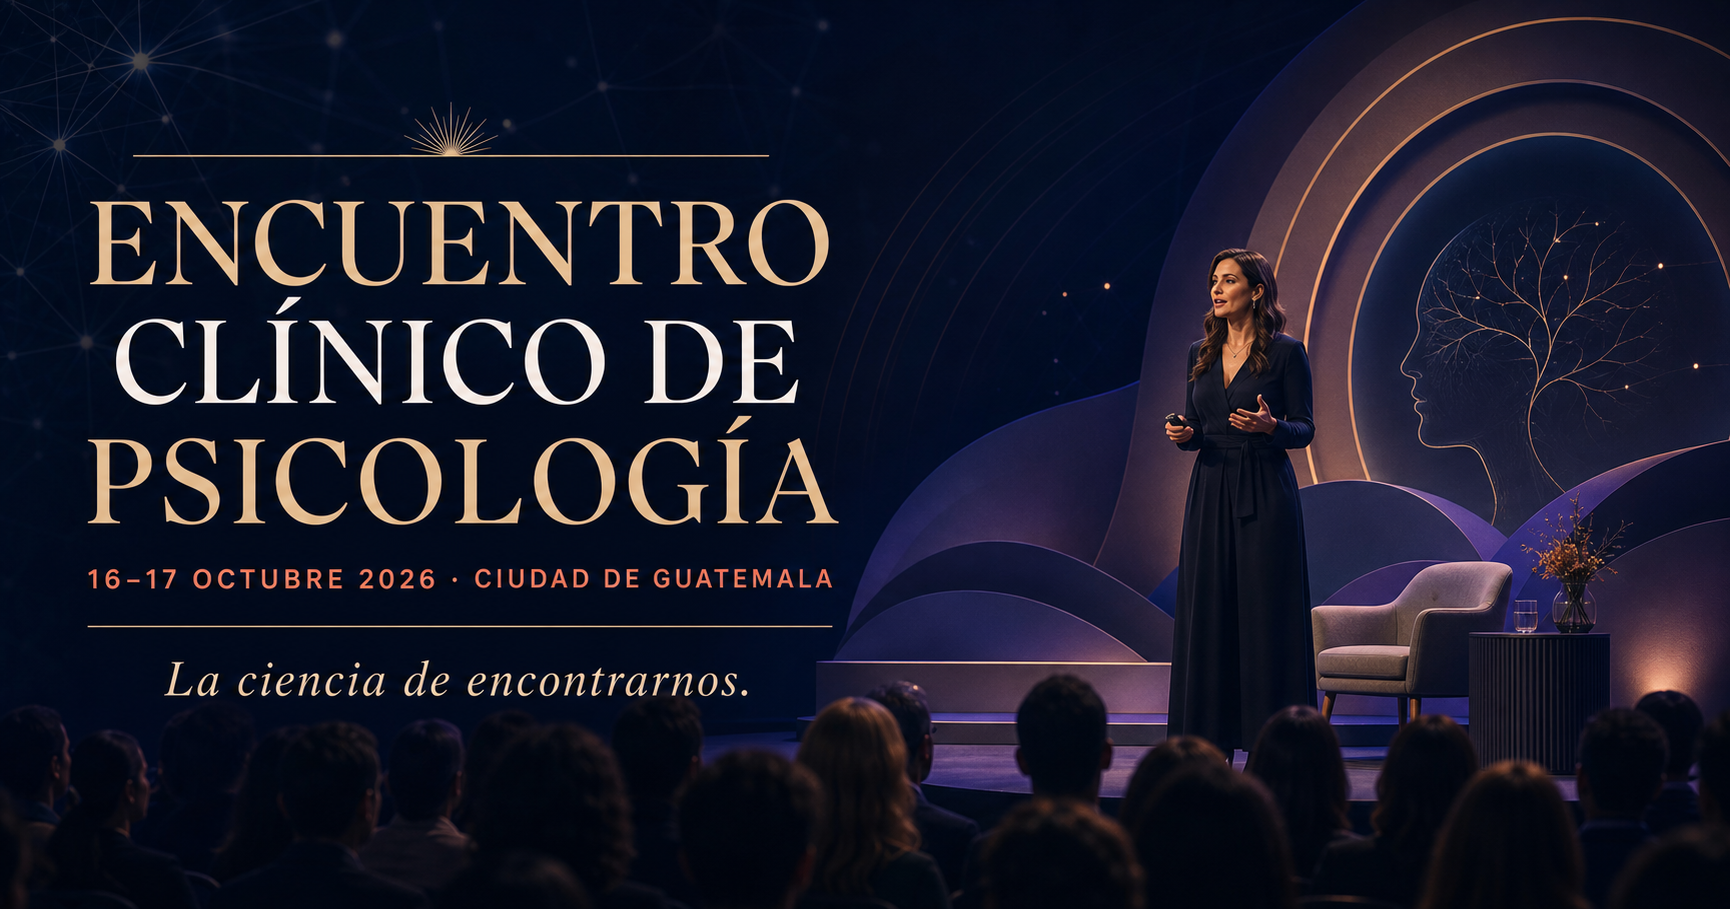
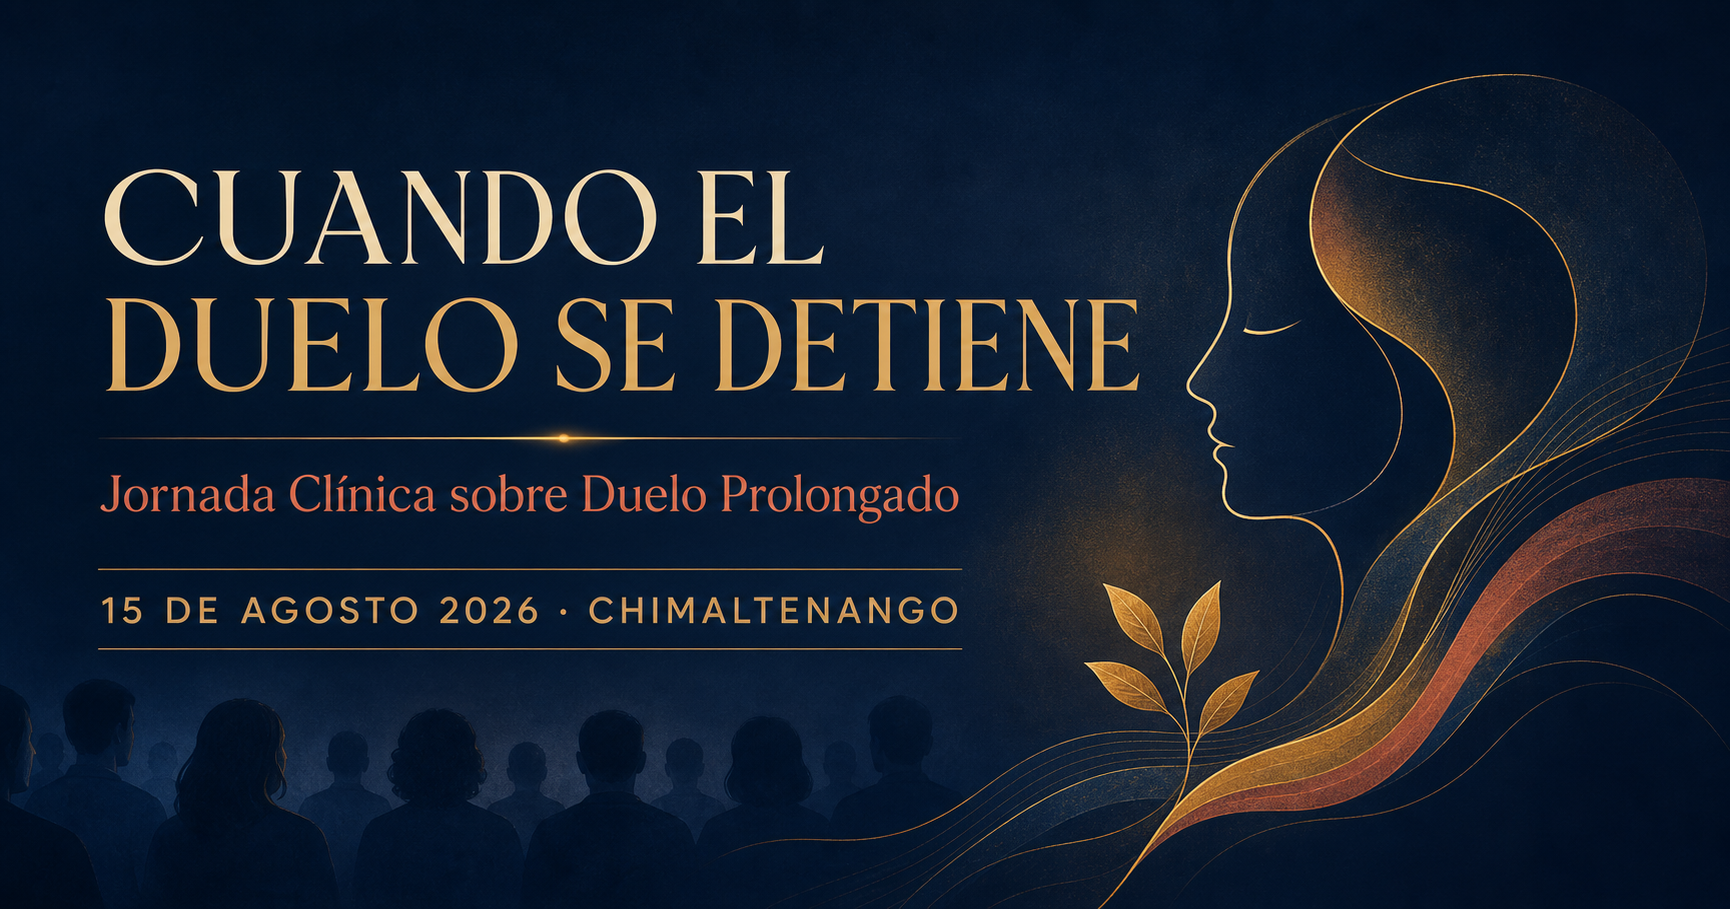
Update prolonged grief clinical program

diff --git a/app/page.tsx b/app/page.tsx
@@ -1,30 +1,35 @@
 "use client";
 
-import { FormEvent, useMemo, useState } from "react";
+import { FormEvent, useState } from "react";
 
 const agenda = [
-  { time: "08:00", type: "Apertura", title: "Registro, café y encuentro", speaker: "Vestíbulo principal" },
-  { time: "09:00", type: "Magistral", title: "La mente que sana: presencia, vínculo y cambio", speaker: "Dra. Elena Valdés · Psicología clínica" },
-  { time: "10:30", type: "Panel", title: "Trauma, cuerpo y memoria: una mirada integradora", speaker: "Panel interdisciplinario" },
-  { time: "12:00", type: "Pausa", title: "Almuerzo y conexión profesional", speaker: "Zona de experiencias" },
-  { time: "14:00", type: "Taller", title: "Herramientas para conversaciones clínicas difíciles", speaker: "Lic. Samuel Méndez" },
-  { time: "16:00", type: "Magistral", title: "Psicología en una era de inteligencia artificial", speaker: "Dra. Mariana Solís · Neuropsicología" },
-  { time: "17:30", type: "Cierre", title: "Lo que nos llevamos a la práctica", speaker: "Comité académico" },
+  { time: "8:30–9:00", type: "Registro", title: "Registro e inscripciones", speaker: "Recepción de participantes" },
+  { time: "9:00–9:10", type: "Apertura", title: "Apertura institucional", speaker: "Bienvenida a la jornada" },
+  { time: "9:10–9:30", type: "Charla 1", title: "Diagnóstico", speaker: "Duelo normal vs. trastorno de duelo prolongado · DSM-5-TR / CIE-11" },
+  { time: "9:30–9:50", type: "Charla 2", title: "Impacto corporal", speaker: "Somatización del duelo no resuelto" },
+  { time: "9:50–10:10", type: "Charla 3", title: "Manejo terapéutico", speaker: "Intervención clínica individual" },
+  { time: "10:10–10:25", type: "Receso", title: "Pausa y encuentro", speaker: "15 minutos" },
+  { time: "10:25–10:45", type: "Charla 4", title: "Manejo familiar", speaker: "El sistema familiar frente al duelo detenido" },
+  { time: "10:45–11:05", type: "Charla 5", title: "Psiquiatría", speaker: "Cuándo se requiere manejo farmacológico" },
+  { time: "11:05–11:25", type: "Charla 6", title: "Cierre comunitario", speaker: "Resiliencia y rol del psicólogo local" },
+  { time: "11:25–12:00", type: "Cierre", title: "Panel de preguntas y entrega de constancias", speaker: "Conversación con los 6 ponentes · cierre institucional" },
 ];
 
 const speakers = [
-  { initials: "EV", name: "Dra. Elena Valdés", role: "Psicóloga clínica y autora", topic: "Presencia terapéutica y cambio profundo", color: "violet" },
-  { initials: "SM", name: "Lic. Samuel Méndez", role: "Especialista en trauma complejo", topic: "El cuerpo como territorio de recuperación", color: "gold" },
-  { initials: "MS", name: "Dra. Mariana Solís", role: "Neuropsicóloga e investigadora", topic: "La clínica frente a la inteligencia artificial", color: "coral" },
+  { initials: "01", name: "Diagnóstico", role: "Eje clínico", topic: "Duelo normal vs. trastorno de duelo prolongado", color: "violet" },
+  { initials: "02", name: "Impacto corporal", role: "Eje clínico", topic: "Somatización del duelo no resuelto", color: "gold" },
+  { initials: "03", name: "Manejo terapéutico", role: "Eje clínico", topic: "Intervención clínica individual", color: "coral" },
+  { initials: "04", name: "Manejo familiar", role: "Eje sistémico", topic: "El sistema familiar frente al duelo detenido", color: "gold" },
+  { initials: "05", name: "Psiquiatría", role: "Eje interdisciplinario", topic: "Cuándo se requiere manejo farmacológico", color: "violet" },
+  { initials: "06", name: "Cierre comunitario", role: "Eje comunitario", topic: "Resiliencia y rol del psicólogo local", color: "coral" },
 ];
 
 export default function Home() {
-  const [day, setDay] = useState("Día 1");
   const [registration, setRegistration] = useState<"presencial" | "virtual" | null>(null);
   const [professional, setProfessional] = useState(false);
   const [student, setStudent] = useState(false);
   const [sent, setSent] = useState(false);
-  const visibleAgenda = useMemo(() => day === "Día 1" ? agenda : agenda.slice(1, 6).map((item, i) => ({ ...item, time: `${9 + i * 2}:00` })), [day]);
+  const visibleAgenda = agenda;
 
   async function submitRegistration(event: FormEvent<HTMLFormElement>) {
     event.preventDefault();
@@ -38,10 +43,10 @@ export default function Home() {
       <a className="skip-link" href="#contenido">Saltar al contenido</a>
       <header className="topbar">
         <a className="brand" href="#inicio" aria-label="Inicio Encuentro Clínico">
-          <span className="brand-mark">EC</span><span>ENCUENTRO<br /><b>CLÍNICO</b></span>
+          <img className="brand-logo" src="/duelo-simbolo.png" alt="" /><span>ENCUENTRO<br /><b>CLÍNICO</b></span>
         </a>
         <nav aria-label="Navegación principal">
-          <a href="#encuentro">El encuentro</a><a href="#agenda">Agenda</a><a href="#ponentes">Ponentes</a><a href="#recursos">Recursos</a>
+          <a href="#encuentro">La jornada</a><a href="#agenda">Agenda</a><a href="#ponentes">Ejes clínicos</a><a href="#constancias">Constancias</a>
         </nav>
         <div className="nav-actions">
           <a className="live locked" href="#transmision" aria-label="Transmisión aún no disponible"><i /> En vivo · Próximamente</a>
@@ -53,51 +58,59 @@ export default function Home() {
       <section id="inicio" className="hero">
         <div className="hero-orb orb-one" /><div className="hero-orb orb-two" />
         <div className="hero-content" id="contenido">
-          <p className="eyebrow"><span /> 16–17 OCTUBRE 2026 · CIUDAD DE GUATEMALA</p>
-          <h1>La ciencia de<br /><em>encontrarnos.</em></h1>
-          <p className="hero-copy">Dos días para volver al corazón de la práctica clínica: escuchar mejor, comprender más profundo y acompañar con humanidad.</p>
+          <p className="eyebrow"><span /> 15 DE AGOSTO 2026 · CHIMALTENANGO</p>
+          <h1>Cuando el duelo<br /><em>se detiene.</em></h1>
+          <p className="hero-copy"><b>Jornada Clínica sobre Duelo Prolongado.</b> Seis miradas para comprender su diagnóstico, impacto corporal y abordaje terapéutico, familiar, psiquiátrico y comunitario.</p>
           <div className="hero-actions">
             <button className="primary" onClick={() => setRegistration("presencial")}>Vivirlo presencial <span>↗</span></button>
             <button className="secondary" onClick={() => setRegistration("virtual")}>Participar en línea <span>→</span></button>
           </div>
-          <div className="hero-meta"><span><b>02</b> días</span><span><b>18</b> voces</span><span><b>12</b> experiencias</span></div>
+          <div className="hero-meta"><span><b>01</b> jornada</span><span><b>06</b> ponentes</span><span><b>3.5</b> horas</span></div>
         </div>
         <div className="hero-stage" aria-label="Conferencia magistral ante una audiencia">
           <div className="arch arch-1" /><div className="arch arch-2" /><div className="stage-light" />
           <div className="speaker-figure"><span className="head" /><span className="body" /></div>
           <div className="audience"><i /><i /><i /><i /><i /><i /><i /><i /></div>
-          <div className="stage-caption"><span>01</span><p>PONENCIA MAGISTRAL<br /><b>Ideas que transforman la práctica</b></p></div>
+          <div className="stage-caption"><span>15</span><p>AGOSTO 2026<br /><b>Modalidad híbrida · alcance nacional</b></p></div>
         </div>
         <a className="scroll-hint" href="#encuentro">Descubrir <span>↓</span></a>
       </section>
 
       <section id="encuentro" className="manifesto section-pad">
-        <div><p className="section-kicker">UNA EXPERIENCIA CLÍNICA VIVA</p><h2>No venimos solo a escuchar.<br /><em>Venimos a conectar.</em></h2></div>
-        <div className="manifesto-copy"><p>Un espacio de aprendizaje riguroso y profundamente humano para estudiantes, profesionales y equipos de salud mental.</p><a href="#agenda">Explorar el programa <span>→</span></a></div>
+        <div><p className="section-kicker">POR QUÉ EL DUELO PROLONGADO</p><h2>Cuando el tiempo pasa,<br /><em>pero el dolor no cambia.</em></h2></div>
+        <div className="manifesto-copy"><p>Una categoría diagnóstica reconocida por DSM-5-TR y CIE-11, todavía poco abordada en espacios formales e interdisciplinarios de Guatemala.</p><a href="#agenda">Explorar la jornada <span>→</span></a></div>
         <div className="value-grid">
-          <article><span>01</span><div className="line-icon">◌</div><h3>Perspectivas actuales</h3><p>Conocimiento clínico conectado con los desafíos de hoy.</p></article>
-          <article><span>02</span><div className="line-icon">✦</div><h3>Herramientas aplicables</h3><p>Recursos para llevar del encuentro a la consulta.</p></article>
-          <article><span>03</span><div className="line-icon">∞</div><h3>Comunidad profesional</h3><p>Conversaciones que continúan mucho después del evento.</p></article>
+          <article><span>01</span><div className="line-icon">◌</div><h3>Clínicamente relevante</h3><p>El duelo prolongado no es solo una etapa emocional: requiere detección y abordaje especializado.</p></article>
+          <article><span>02</span><div className="line-icon">✦</div><h3>Necesario en Guatemala</h3><p>Un espacio formal, interdisciplinario y con respaldo institucional dedicado al tema.</p></article>
+          <article><span>03</span><div className="line-icon">∞</div><h3>Alcance interinstitucional</h3><p>Universidades, Colegio de Psicólogos y otras ramas de la salud reunidas en una sola agenda.</p></article>
         </div>
       </section>
 
       <section id="agenda" className="agenda-section section-pad">
-        <div className="section-head"><div><p className="section-kicker">PROGRAMA ACADÉMICO</p><h2>Tu ruta de<br /><em>aprendizaje.</em></h2></div><div className="day-tabs" role="tablist">{["Día 1", "Día 2"].map(d => <button key={d} role="tab" aria-selected={day === d} onClick={() => setDay(d)}>{d}<small>{d === "Día 1" ? "Viernes 16" : "Sábado 17"}</small></button>)}</div></div>
+        <div className="section-head"><div><p className="section-kicker">CRONOGRAMA · 8:30 A.M.–12:00 P.M.</p><h2>Tres horas y media,<br /><em>minuto a minuto.</em></h2></div><div className="event-date-card"><b>15</b><span>AGOSTO<br />2026</span></div></div>
         <div className="agenda-list">{visibleAgenda.map((item, i) => <article key={item.time + item.title}><time>{item.time}</time><span className={`tag tag-${i % 3}`}>{item.type}</span><div><h3>{item.title}</h3><p>{item.speaker}</p></div><button aria-label={`Ver detalles de ${item.title}`}>+</button></article>)}</div>
         <a className="text-link" href="#recursos">Descargar agenda completa <span>↓</span></a>
       </section>
 
       <section id="ponentes" className="speakers-section section-pad">
-        <div className="section-head"><div><p className="section-kicker light">VOCES QUE ABREN CAMINO</p><h2>Conoce a quienes<br /><em>nos harán pensar.</em></h2></div><p className="side-copy">Referentes, investigadores y profesionales que combinan evidencia, experiencia y sensibilidad humana.</p></div>
+        <div className="section-head"><div><p className="section-kicker light">SEIS EJES · UNA SECUENCIA CLÍNICA</p><h2>Un tema.<br /><em>Seis miradas.</em></h2></div><p className="side-copy">Charlas breves de 15–18 minutos, transición inmediata y cierre integrador con los seis ponentes.</p></div>
         <div className="speaker-grid">{speakers.map((speaker, i) => <article className={`speaker-card ${speaker.color}`} key={speaker.name}><div className="portrait"><div className="portrait-glow" /><span>{speaker.initials}</span><div className="portrait-number">0{i + 1}</div></div><div className="speaker-info"><p>{speaker.role}</p><h3>{speaker.name}</h3><div /><small>{speaker.topic}</small></div></article>)}</div>
-        <button className="secondary light-btn">Ver todos los ponentes <span>→</span></button>
+        <a className="secondary light-btn" href="#agenda">Ver cronograma completo <span>→</span></a>
       </section>
 
       <section id="inscripciones" className="formats section-pad">
         <div className="center-head"><p className="section-kicker">ELIGE CÓMO VIVIRLO</p><h2>Una experiencia.<br /><em>Dos formas de estar.</em></h2></div>
         <div className="format-grid">
-          <article className="format-card featured"><span className="format-label">PRESENCIAL</span><div className="format-symbol">◉</div><h3>Estar cambia todo.</h3><p>Vive las conferencias, talleres y encuentros en el mismo espacio.</p><ul><li>Acceso a todas las salas</li><li>Kit del participante</li><li>Café y espacios de conexión</li><li>Certificado de participación</li></ul><button className="primary" onClick={() => setRegistration("presencial")}>Inscripción presencial <span>→</span></button></article>
-          <article className="format-card"><span className="format-label">VIRTUAL</span><div className="format-symbol">◎</div><h3>Conéctate desde donde estés.</h3><p>Transmisión de alta calidad y acceso posterior a las ponencias.</p><ul><li>Transmisión en vivo</li><li>Acceso por 30 días</li><li>Biblioteca digital</li><li>Certificado de participación</li></ul><button className="secondary" onClick={() => setRegistration("virtual")}>Inscripción virtual <span>→</span></button></article>
+          <article className="format-card featured"><span className="format-label">PRESENCIAL</span><div className="format-symbol">◉</div><h3>Vívelo en Chimaltenango.</h3><p>Participa en la jornada, el panel de preguntas y el encuentro interdisciplinario.</p><ul><li>Seis charlas clínicas breves</li><li>Panel con los seis ponentes</li><li>Espacio de conexión profesional</li><li>Constancia según perfil</li></ul><button className="primary" onClick={() => setRegistration("presencial")}>Inscripción presencial <span>→</span></button></article>
+          <article className="format-card"><span className="format-label">VIRTUAL</span><div className="format-symbol">◎</div><h3>Conéctate desde donde estés.</h3><p>Sigue la jornada en directo con el mismo contenido científico.</p><ul><li>Transmisión en vivo</li><li>Acceso a las seis charlas</li><li>Biblioteca digital</li><li>Constancia según perfil</li></ul><button className="secondary" onClick={() => setRegistration("virtual")}>Inscripción virtual <span>→</span></button></article>
+        </div>
+      </section>
+
+      <section id="constancias" className="certificates section-pad">
+        <div className="center-head"><p className="section-kicker">BENEFICIOS PARA PARTICIPANTES</p><h2>Constancias diferenciadas<br /><em>por perfil.</em></h2></div>
+        <div className="certificate-grid">
+          <article className="professional-certificate"><span>CONSTANCIA</span><h3>Profesionales colegiados</h3><em>Colegio de Psicólogos de Guatemala (CPG)</em><ul><li>Constancia con aval y numeración del CPG</li><li>Reconocimiento formal de horas de actualización profesional</li><li>Firma conjunta CPG</li></ul></article>
+          <article><span>DIPLOMA</span><h3>Estudiantes y otras ramas de la salud</h3><em>Medicina, enfermería, trabajo social y otras carreras</em><ul><li>Diploma de participación institucional</li><li>Válido como constancia de asistencia académica</li><li>Mismo contenido científico, sin aval gremial del CPG</li></ul></article>
         </div>
       </section>
 
@@ -110,7 +123,7 @@ export default function Home() {
 
       <section className="partners section-pad"><p className="section-kicker">HACEN POSIBLE ESTE ENCUENTRO</p><h2>Aliados por la salud mental.</h2><div className="logo-row"><span>MENTE ABIERTA</span><span>CLÍNICA SER</span><span>PSI·LAB</span><span>UNIVERSIDAD CENTRAL</span><span>FUNDACIÓN ESCUCHA</span></div><a href="mailto:[email redacted]">Quiero ser patrocinador <span>→</span></a></section>
 
-      <footer><div className="footer-brand"><span className="brand-mark">EC</span><h2>Encuentro<br />Clínico de Psicología</h2></div><div><b>Explora</b><a href="#encuentro">El encuentro</a><a href="#agenda">Agenda</a><a href="#ponentes">Ponentes</a><a href="#recursos">Biblioteca</a></div><div><b>Participa</b><button onClick={() => setRegistration("presencial")}>Inscripción presencial</button><button onClick={() => setRegistration("virtual")}>Inscripción virtual</button><a href="mailto:[email redacted]">Patrocinios</a><a href="/admin">Administración</a></div><div><b>Mantente cerca</b><p>Recibe novedades, recursos y anuncios importantes.</p><form><input type="email" aria-label="Correo electrónico" placeholder="[email redacted]" /><button aria-label="Suscribirme">→</button></form></div><small>© 2026 Encuentro Clínico · Privacidad · Términos</small></footer>
+      <footer><div className="footer-brand"><img className="footer-logo" src="/duelo-simbolo.png" alt="Símbolo de la jornada" /><h2>Cuando el Duelo se Detiene</h2></div><div><b>Explora</b><a href="#encuentro">La jornada</a><a href="#agenda">Agenda</a><a href="#ponentes">Ejes clínicos</a><a href="#constancias">Constancias</a></div><div><b>Participa</b><button onClick={() => setRegistration("presencial")}>Inscripción presencial</button><button onClick={() => setRegistration("virtual")}>Inscripción virtual</button><a href="mailto:[email redacted]">Patrocinios</a><a href="/admin">Administración</a></div><div><b>Mantente cerca</b><p>Recibe novedades, recursos y anuncios importantes.</p><form><input type="email" aria-label="Correo electrónico" placeholder="[email redacted]" /><button aria-label="Suscribirme">→</button></form></div><small>© 2026 Encuentro Clínico de Psicología · Chimaltenango · Privacidad · Términos</small></footer>
 
       {registration && <div className="modal-backdrop" role="presentation" onMouseDown={() => setRegistration(null)}><div className="registration-modal" role="dialog" aria-modal="true" aria-labelledby="reg-title" onMouseDown={e => e.stopPropagation()}><button className="modal-close" onClick={() => setRegistration(null)} aria-label="Cerrar">×</button>{sent ? <div className="success"><span>✓</span><h2>Tu lugar está en proceso.</h2><p>Recibimos tus datos para la modalidad {registration}. Pronto recibirás los siguientes pasos.</p><button className="primary" onClick={() => { setSent(false); setRegistration(null); }}>Listo</button></div> : <><p className="section-kicker">INSCRIPCIÓN {registration.toUpperCase()}</p><h2 id="reg-title">Reserva tu lugar.</h2><p>Completa tus datos. Los campos marcados son obligatorios.</p><form onSubmit={submitRegistration} className="registration-form"><label>Nombre completo *<input required name="name" autoComplete="name" /></label><label>Correo electrónico *<input required type="email" name="email" autoComplete="email" /></label><label>Teléfono / WhatsApp *<input required type="tel" name="phone" autoComplete="tel" /></label><div className="check-row"><label><input type="checkbox" checked={student} onChange={e => { setStudent(e.target.checked); if (e.target.checked) setProfessional(false); }} /> Soy estudiante</label><label><input type="checkbox" checked={professional} onChange={e => { setProfessional(e.target.checked); if (e.target.checked) setStudent(false); }} /> Soy profesional</label></div>{student && <label>Universidad / centro de estudios *<input required name="university" /></label>}{professional && <><label>Profesión *<select required defaultValue=""><option value="" disabled>Selecciona una profesión</option><option>Psicología clínica</option><option>Psicología educativa</option><option>Psicología industrial</option><option>Psiquiatría</option><option>Medicina</option><option>Trabajo social</option><option>Orientación</option><option>Otra profesión de salud</option></select></label><label>Número de colegiado *<input required name="license" /></label></>}<label>País *<select required defaultValue="Guatemala"><option>Guatemala</option><option>El Salvador</option><option>Honduras</option><option>Costa Rica</option><option>México</option><option>Otro</option></select></label><label className="consent"><input required type="checkbox" /> Acepto el tratamiento de mis datos para gestionar esta inscripción.</label><button className="primary submit" type="submit">Continuar con mi inscripción <span>→</span></button></form></>}</div></div>}
     </main>

diff --git a/app/layout.tsx b/app/layout.tsx
@@ -2,11 +2,11 @@ import type { Metadata } from "next";
 import "./globals.css";
 
 export const metadata: Metadata = {
-  title: "Encuentro Clínico de Psicología 2026",
-  description: "Dos días de aprendizaje, conexión y herramientas para transformar la práctica clínica.",
+  title: "Cuando el Duelo se Detiene | Jornada Clínica 2026",
+  description: "Jornada Clínica sobre Duelo Prolongado. 15 de agosto de 2026 en Chimaltenango, modalidad híbrida.",
   icons: { icon: "/favicon.svg" },
-  openGraph: { title: "Encuentro Clínico de Psicología 2026", description: "La ciencia de encontrarnos.", images: [{ url: "/og.png", width: 1200, height: 630 }] },
-  twitter: { card: "summary_large_image", title: "Encuentro Clínico de Psicología 2026", description: "La ciencia de encontrarnos.", images: ["/og.png"] },
+  openGraph: { title: "Cuando el Duelo se Detiene", description: "Jornada Clínica sobre Duelo Prolongado · 15 de agosto de 2026", images: [{ url: "/og.png", width: 1200, height: 630 }] },
+  twitter: { card: "summary_large_image", title: "Cuando el Duelo se Detiene", description: "Jornada Clínica sobre Duelo Prolongado", images: ["/og.png"] },
 };
 
 export default function RootLayout({ children }: Readonly<{ children: React.ReactNode }>) {

diff --git a/app/admin/AdminDashboard.tsx b/app/admin/AdminDashboard.tsx
@@ -7,7 +7,7 @@ export default function AdminDashboard({ userName }: { userName: string }) {
   const [active, setActive] = useState("Resumen");
   const [live, setLive] = useState(false);
   const [saved, setSaved] = useState(false);
-  const [content, setContent] = useState({ title: "La ciencia de encontrarnos.", date: "16–17 octubre 2026", place: "Ciudad de Guatemala", description: "Dos días para volver al corazón de la práctica clínica." });
+  const [content, setContent] = useState({ title: "Cuando el Duelo se Detiene", date: "15 de agosto 2026", place: "Chimaltenango", description: "Jornada Clínica sobre Duelo Prolongado: seis miradas, una secuencia clínica." });
   async function save() { await fetch("/api/admin/content", { method: "POST", headers: { "Content-Type": "application/json" }, body: JSON.stringify({ ...content, live }) }); setSaved(true); setTimeout(() => setSaved(false), 2500); }
   return <main className="admin-shell"><aside className="admin-sidebar"><a className="admin-brand" href="/"><span className="brand-mark">EC</span><b>Encuentro Clínico</b></a><nav>{sections.map((item,i)=><button key={item} className={active===item?"active":""} onClick={()=>setActive(item)}><span>{["◇","✎","☷","◉","✓","▶","☆","▤","⚙"][i]}</span>{item}{item==="Inscripciones"&&<i>24</i>}</button>)}</nav><div className="admin-user"><span>{userName.slice(0,2).toUpperCase()}</span><div><b>{userName}</b><small>Administrador</small></div><a href="/signout-with-chatgpt?return_to=/">→</a></div></aside><section className="admin-main"><header><div><p>Panel de administración</p><h1>{active}</h1></div><div className="admin-header-actions"><a href="/" target="_blank">Ver sitio ↗</a><button className="admin-save" onClick={save}>{saved?"✓ Guardado":"Guardar cambios"}</button></div></header>{active==="Resumen"&&<div className="admin-content"><div className="welcome"><div><p>BUEN DÍA</p><h2>Todo listo para crear<br />un encuentro memorable.</h2><span>Faltan 94 días para el evento.</span></div><div className="event-ring"><b>94</b><small>DÍAS</small></div></div><div className="stat-grid"><article><span>Inscripciones totales</span><b>248</b><small>↑ 18% esta semana</small></article><article><span>Presenciales</span><b>172</b><small>69% del total</small></article><article><span>Virtuales</span><b>76</b><small>31% del total</small></article><article><span>Cupo disponible</span><b>128</b><small>de 300 presenciales</small></article></div><div className="admin-columns"><article className="panel"><div className="panel-title"><h3>Actividad reciente</h3><button>Ver todas</button></div>{["Ana Lucía Herrera se inscribió presencialmente","Carlos Méndez se inscribió virtualmente","Se actualizó la agenda del Día 2","Nuevo recurso agregado a la biblioteca"].map((x,i)=><div className="activity" key={x}><span>{i<2?"+":"✓"}</span><p>{x}<small>Hace {i+1} h</small></p></div>)}</article><article className="panel"><div className="panel-title"><h3>Estado del sitio</h3><span className="online">En línea</span></div><label className="live-toggle"><div><b>Transmisión en vivo</b><small>{live?"Visible para inscritos":"Aún no disponible"}</small></div><input type="checkbox" checked={live} onChange={e=>setLive(e.target.checked)} /><i /></label><div className="checklist"><p><span>✓</span> Información general <b>Completo</b></p><p><span>✓</span> Agenda del evento <b>7 sesiones</b></p><p><span>✓</span> Ponentes <b>3 publicados</b></p><p><span>!</span> Patrocinadores <b>2 pendientes</b></p></div></article></div></div>}{active==="Contenido"&&<div className="admin-content editor-page"><div className="panel"><p className="admin-kicker">PORTADA DEL SITIO</p><h2>Textos principales</h2><label>Título del evento<input value={content.title} onChange={e=>setContent({...content,title:e.target.value})}/></label><label>Fecha<input value={content.date} onChange={e=>setContent({...content,date:e.target.value})}/></label><label>Lugar<input value={content.place} onChange={e=>setContent({...content,place:e.target.value})}/></label><label>Descripción<textarea rows={4} value={content.description} onChange={e=>setContent({...content,description:e.target.value})}/></label><label className="upload-box"><span>↑</span><b>Cambiar imagen principal</b><small>JPG, PNG o WebP · máximo 8 MB</small><input type="file" accept="image/*" /></label></div><div className="panel preview-card"><p>VISTA PREVIA</p><div><small>{content.date} · {content.place}</small><h3>{content.title}</h3><p>{content.description}</p></div></div></div>}{!["Resumen","Contenido"].includes(active)&&<div className="admin-content"><div className="panel empty-editor"><span>{active==="Transmisión"?"▶":"✎"}</span><h2>Gestionar {active.toLowerCase()}</h2><p>Agrega, ordena, edita, publica u oculta elementos de esta sección desde aquí.</p><button className="admin-save">+ Agregar nuevo</button>{active==="Transmisión"&&<label className="live-toggle large"><div><b>Activar transmisión</b><small>Mostrará el reproductor a participantes autorizados.</small></div><input type="checkbox" checked={live} onChange={e=>setLive(e.target.checked)} /><i /></label>}</div></div>}</section></main>
 }

diff --git a/app/globals.css b/app/globals.css
@@ -10,6 +10,7 @@
 @media(max-width:700px){.topbar{padding:0 1rem}.brand span:last-child{display:none}.nav-actions .admin-link{display:none}.hero{padding:110px 1.4rem 4rem;display:block}.hero h1{font-size:clamp(3.6rem,18vw,5.7rem);margin-top:2rem}.hero-copy{font-size:1rem}.hero-actions{flex-direction:column;align-items:stretch}.hero-stage{inset:40% -48% 2% 25%;opacity:.35}.hero-meta{gap:1.5rem}.scroll-hint{display:none}.section-pad{padding:5.5rem 1.4rem}.manifesto-copy{font-size:1rem}.value-grid,.speaker-grid,.format-grid,.resource-grid{grid-template-columns:1fr}.value-grid article{border-right:0;border-bottom:1px solid var(--line)}.day-tabs{width:100%}.day-tabs button{flex:1;padding:1rem}.agenda-list article{grid-template-columns:62px 1fr 36px;gap:.8rem}.agenda-list .tag{display:none}.agenda-list h3{font-size:1rem}.agenda-list p{font-size:.7rem}.speaker-card{min-height:480px}.format-card.featured{transform:none}.live-visual{height:320px}footer{grid-template-columns:1fr;gap:2.5rem}.footer-brand,footer>small{grid-column:1}.registration-modal{padding:2.8rem 1.2rem 1.4rem}.registration-form{grid-template-columns:1fr}.registration-form>*{grid-column:1}.check-row{flex-direction:column}.registration-modal h2{font-size:2.3rem}}
 @media(prefers-reduced-motion:reduce){html{scroll-behavior:auto}*,*:before,*:after{transition:none!important}}
 .hero-stage{background:linear-gradient(90deg,rgba(9,11,38,.28),rgba(9,11,38,0)),url('/keynote-hero.png') center/cover no-repeat;border-radius:50% 50% 8px 8px;box-shadow:0 30px 70px rgba(0,0,0,.35);overflow:hidden}.hero-stage .arch,.hero-stage .stage-light,.hero-stage .speaker-figure,.hero-stage .audience{display:none}
+.brand-logo{width:42px;height:42px;border-radius:50%;object-fit:cover}.hero h1{font-size:clamp(3.8rem,6.2vw,7rem);line-height:.86}.hero-copy b{color:#fff;font-weight:600}.event-date-card{display:flex;align-items:center;gap:1rem;border-left:1px solid #aaa;padding-left:2rem}.event-date-card b{font:italic 4rem Georgia;color:var(--gold)}.event-date-card span{font-size:.64rem;line-height:1.5;letter-spacing:.14em}.speaker-grid{grid-template-columns:repeat(3,1fr)}.certificates{background:#f3f0e8}.certificate-grid{display:grid;grid-template-columns:1fr 1fr;gap:1.2rem;max-width:1120px;margin:4rem auto 0}.certificate-grid article{background:#e8e6e1;padding:3rem;min-height:440px}.certificate-grid article.professional-certificate{background:#15213c;color:#fff}.certificate-grid article>span{font-size:.68rem;letter-spacing:.18em;color:#d2a421;font-weight:700}.certificate-grid h3{font:2rem Georgia;margin:1rem 0 .5rem}.certificate-grid em{font:italic 1.05rem Georgia;color:#75717b}.professional-certificate em{color:#f1cf62}.certificate-grid ul{list-style:none;padding:1.5rem 0 0;margin:1.5rem 0 0;border-top:1px solid rgba(120,120,120,.2)}.certificate-grid li{position:relative;padding:.7rem 0 .7rem 1.8rem;line-height:1.5}.certificate-grid li:before{content:"";position:absolute;left:0;top:1.1rem;width:8px;height:8px;border-radius:50%;background:#d2a421}.footer-logo{width:72px;height:72px;border-radius:50%}@media(max-width:700px){.hero h1{font-size:clamp(3rem,15vw,5rem)}.event-date-card{padding-left:1rem}.event-date-card b{font-size:3rem}.certificate-grid{grid-template-columns:1fr}.certificate-grid article{padding:2rem;min-height:auto}.speaker-grid{grid-template-columns:1fr}}
 
 .admin-shell{min-height:100vh;background:#f2f0eb;display:grid;grid-template-columns:250px 1fr;color:#171938}.admin-sidebar{position:sticky;top:0;height:100vh;background:#0e1033;color:#dbdbea;padding:1.5rem 1rem;display:flex;flex-direction:column}.admin-brand{display:flex;align-items:center;gap:.7rem;padding:0 .5rem 1.8rem;border-bottom:1px solid #292b4d;font:1rem Georgia}.admin-sidebar nav{display:flex;flex-direction:column;gap:.25rem;padding:1.5rem 0}.admin-sidebar nav button{border:0;background:transparent;color:#9696ae;text-align:left;padding:.8rem .9rem;border-radius:4px;display:flex;align-items:center;gap:.8rem;font-size:.77rem}.admin-sidebar nav button:hover,.admin-sidebar nav button.active{background:#20234b;color:#fff}.admin-sidebar nav button>span{font-size:1rem;color:#b29adf;width:18px}.admin-sidebar nav button>i{margin-left:auto;background:#d6aa67;color:#11132f;font-style:normal;border-radius:10px;padding:.1rem .4rem;font-size:.55rem}.admin-user{margin-top:auto;border-top:1px solid #292b4d;padding-top:1.2rem;display:flex;align-items:center;gap:.65rem}.admin-user>span{width:36px;height:36px;border-radius:50%;background:#8e73c4;display:grid;place-items:center;font-size:.65rem}.admin-user div{display:flex;flex-direction:column;min-width:0}.admin-user b{font-size:.7rem;white-space:nowrap;overflow:hidden;text-overflow:ellipsis;max-width:120px}.admin-user small{font-size:.58rem;color:#8989a3}.admin-user>a{margin-left:auto}.admin-main{min-width:0}.admin-main>header{height:90px;background:#faf9f6;border-bottom:1px solid #dedbd3;padding:1rem 3vw;display:flex;justify-content:space-between;align-items:center}.admin-main>header p{margin:0;font-size:.58rem;text-transform:uppercase;letter-spacing:.14em;color:#86838e}.admin-main>header h1{margin:.2rem 0 0;font:1.65rem Georgia}.admin-header-actions{display:flex;gap:.7rem;align-items:center}.admin-header-actions a{font-size:.65rem;text-transform:uppercase;letter-spacing:.1em}.admin-save{border:0;background:#171a47;color:white;padding:.8rem 1.2rem;text-transform:uppercase;letter-spacing:.1em;font-size:.61rem}.admin-content{padding:2.5rem 3vw}.welcome{background:linear-gradient(115deg,#161944,#252259);color:white;padding:2.5rem 3rem;display:flex;justify-content:space-between;align-items:center;overflow:hidden;position:relative}.welcome:after{content:"";position:absolute;right:-7%;width:300px;height:300px;border:1px solid rgba(255,255,255,.1);border-radius:50%;box-shadow:0 0 0 55px rgba(255,255,255,.02)}.welcome p,.admin-kicker{font-size:.56rem;letter-spacing:.16em;color:#c6a970}.welcome h2{font:2.25rem Georgia;margin:.8rem 0}.welcome>div>span{font-size:.7rem;color:#aaa9bd}.event-ring{width:125px;height:125px;border:1px solid #c6a970;border-radius:50%;display:flex;flex-direction:column;justify-content:center;align-items:center;z-index:1}.event-ring b{font:2.5rem Georgia}.event-ring small{font-size:.5rem;letter-spacing:.18em}.stat-grid{display:grid;grid-template-columns:repeat(4,1fr);gap:1rem;margin:1.3rem 0}.stat-grid article,.panel{background:#fff;border:1px solid #e1ddd5;padding:1.5rem}.stat-grid span{display:block;font-size:.62rem;color:#777582}.stat-grid b{display:block;font:2rem Georgia;margin:.7rem 0}.stat-grid small{font-size:.57rem;color:#79768a}.admin-columns{display:grid;grid-template-columns:1.4fr 1fr;gap:1rem}.panel-title{display:flex;justify-content:space-between;align-items:center;border-bottom:1px solid #ebe8e1;padding-bottom:1rem}.panel-title h3{font:1rem Georgia;margin:0}.panel-title button{border:0;background:transparent;font-size:.58rem;text-transform:uppercase;letter-spacing:.08em}.online{color:#3e8b6a;font-size:.58rem}.activity{display:flex;gap:.8rem;align-items:center;padding:.85rem 0;border-bottom:1px solid #efede7}.activity>span{width:27px;height:27px;border-radius:50%;background:#eee9f8;color:#7357b2;display:grid;place-items:center}.activity p{font-size:.68rem;margin:0}.activity small{display:block;color:#9996a0;margin-top:.2rem}.live-toggle{display:flex;align-items:center;position:relative;padding:1.2rem 0;border-bottom:1px solid #efede7}.live-toggle div{display:flex;flex-direction:column}.live-toggle b{font-size:.7rem}.live-toggle small{font-size:.56rem;color:#898692}.live-toggle input{opacity:0;position:absolute}.live-toggle>i{margin-left:auto;width:38px;height:20px;border-radius:12px;background:#b8b6bd;position:relative}.live-toggle>i:after{content:"";position:absolute;width:14px;height:14px;border-radius:50%;background:white;top:3px;left:3px;transition:.2s}.live-toggle input:checked+i{background:#6756b4}.live-toggle input:checked+i:after{left:21px}.checklist p{display:flex;gap:.5rem;font-size:.65rem}.checklist p span{color:#5b9b79}.checklist p b{margin-left:auto;font-weight:normal;color:#898692}.editor-page{display:grid;grid-template-columns:1.2fr .8fr;gap:1rem}.editor-page .panel>h2{font:1.8rem Georgia}.editor-page label{display:block;font-size:.62rem;text-transform:uppercase;letter-spacing:.08em;margin:1rem 0}.editor-page input:not([type=file]),.editor-page textarea{display:block;width:100%;padding:.8rem;margin-top:.4rem;border:1px solid #d1cec7;background:#faf9f6}.upload-box{border:1px dashed #a5a1a7;padding:1.5rem!important;text-align:center;display:flex!important;flex-direction:column;gap:.3rem}.upload-box>span{font-size:1.5rem}.upload-box input{opacity:0;position:absolute}.preview-card>p{font-size:.55rem;letter-spacing:.15em}.preview-card>div{min-height:380px;background:radial-gradient(circle at 75% 20%,#55447f,#12143c 60%);color:white;padding:3rem 2rem;display:flex;flex-direction:column;justify-content:center}.preview-card small{color:#d7b982}.preview-card h3{font:2.7rem Georgia;margin:1rem 0}.preview-card div p{color:#b6b5c7;line-height:1.6}.empty-editor{text-align:center;padding:5rem 2rem!important;max-width:700px;margin:auto}.empty-editor>span{font-size:3rem;color:#7a68b9}.empty-editor h2{font:2rem Georgia}.empty-editor p{color:#777582}.large{margin:3rem auto 0;text-align:left;max-width:480px}.large>i{margin-left:auto}
 @media(max-width:900px){.admin-shell{grid-template-columns:72px 1fr}.admin-sidebar{padding:1rem .55rem}.admin-brand b,.admin-sidebar nav button:not(.active)::after,.admin-sidebar nav button{font-size:0}.admin-sidebar nav button>span{font-size:1.2rem}.admin-user div,.admin-user>a{display:none}.admin-user>span{margin:auto}.stat-grid{grid-template-columns:1fr 1fr}.admin-columns,.editor-page{grid-template-columns:1fr}}